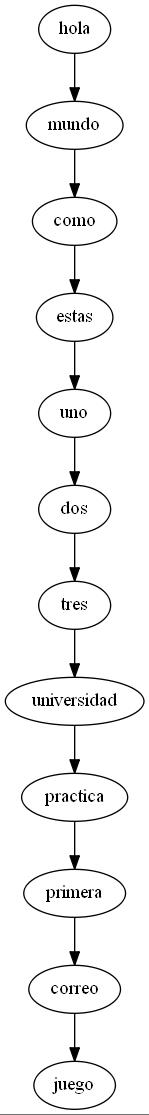
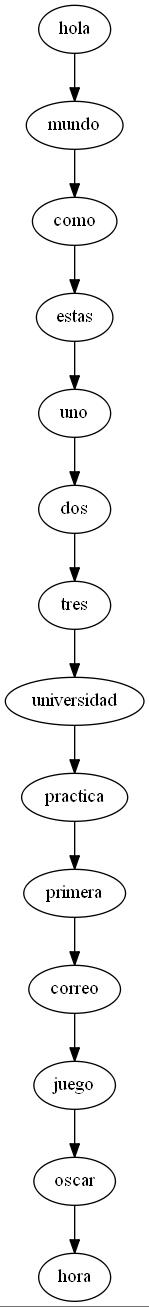
ReportesOk

diff --git a/Practica1Estructuras/src/practica1estructuras/Principal.java b/Practica1Estructuras/src/practica1estructuras/Principal.java
@@ -698,7 +698,6 @@ public class Principal extends javax.swing.JFrame {
                     posy = posy;
                     temp.contenido = nu;
                 }
-
             }
             posx = 21;
             posy = posy + 40;
@@ -1795,21 +1794,24 @@ public class Principal extends javax.swing.JFrame {
     }
 
     public void archivoFichasGeneral() {
+        
         String textArchivo = "digraph imagenFichas{\n";
-
+int inte = 0;
         Ficha bandera = new Ficha();
         bandera = ultimaFicha;
         char a = 34;
         do {
+             
             if (bandera == primeraFicha && bandera == ultimaFicha) {
-                textArchivo = textArchivo + bandera.letra + ";";
+                textArchivo = textArchivo + bandera.letra+String.valueOf(inte) + ";";
             } else if (bandera == ultimaFicha) {
-                textArchivo = textArchivo + a + bandera.letra + a;
+                textArchivo = textArchivo + a + bandera.letra+String.valueOf(inte) + a;
             } else if (bandera == primeraFicha) {
-                textArchivo = textArchivo + "->" + a + bandera.letra + a + ";\n";
+                textArchivo = textArchivo + "->" + a + bandera.letra +String.valueOf(inte)+ a + ";\n";
             } else {
-                textArchivo = textArchivo + "->" + a + bandera.letra + a + ";\n" + bandera.letra;
+                textArchivo = textArchivo + "->" + a + bandera.letra+String.valueOf(inte) + a + ";\n" + bandera.letra+String.valueOf(inte);
             }
+            inte++;
             bandera = bandera.anterior;
         } while (bandera != null);
         textArchivo = textArchivo + "}";
@@ -1825,7 +1827,6 @@ public class Principal extends javax.swing.JFrame {
         } catch (Exception ex) {
             JOptionPane.showMessageDialog(null, "Scrabble dice: " + ex.getMessage());
         }
-
     }
 
     public void generarImagenFichasGeneral() {
